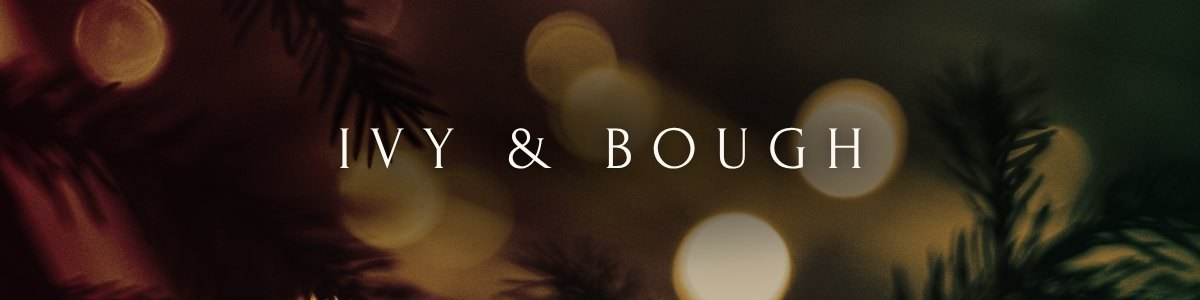
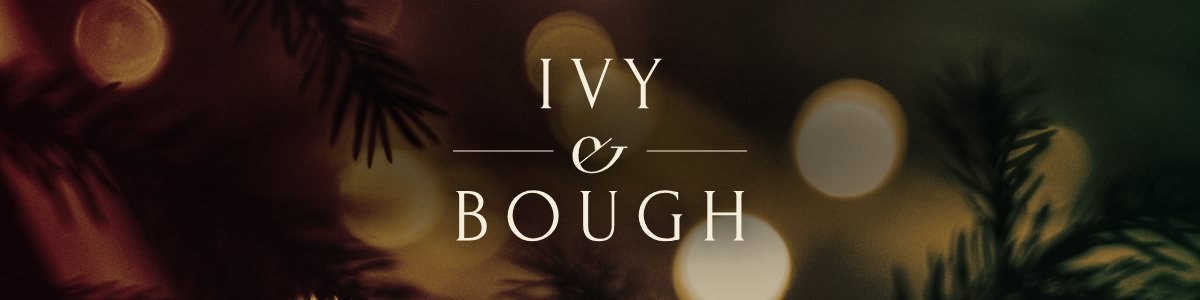
Use the brand wordmark in emails
Claude-Session: https://claude.ai/code/session_01BRVRusWH6xm1ZwGaMcoXVf

Changed region(s): [[0.2775, 0.42, 0.74, 0.57], [0.37, 0.63, 0.6167, 0.81], [0.4317, 0.18, 0.555, 0.36]]

diff --git a/lib/comms.ts b/lib/comms.ts
@@ -76,7 +76,7 @@ export function renderEmail(draft: Pick<Draft, "message_class" | "preheader">, b
 <tr><td align="center" style="padding:13px 12px;border-bottom:1px solid #E0D8CC;font-family:Arial,Helvetica,sans-serif;font-size:11px;letter-spacing:1.5px;text-transform:uppercase">${nav("Shop", "/shop")}${nav("Collections", "/collections")}${nav("The Christmas Edit", "/the-christmas-edit")}</td></tr>
 <tr><td style="padding:28px 32px 30px;font-family:Arial,Helvetica,sans-serif;font-size:15px;line-height:1.6;color:#2F2C27">${body.split(/\n\s*\n/).map(paragraph).join("")}</td></tr>${marketing ? collections : ""}
 <tr><td align="center" style="padding:30px 28px 28px;background:#2B2925;font-family:Arial,Helvetica,sans-serif;color:#E9E3D8">
-<div style="font-family:Georgia,'Times New Roman',serif;font-size:17px;letter-spacing:4px;padding-bottom:16px">IVY &amp; BOUGH</div>
+<div style="padding-bottom:18px"><img src="${SITE_URL}/email/wordmark-cream.png" width="130" alt="Ivy &amp; Bough" style="display:inline-block;width:130px;height:auto;border:0"></div>
 <div style="font-size:12px;line-height:2;padding-bottom:16px">${link("Shop", "/shop")} &nbsp;&middot;&nbsp; ${link("Collections", "/collections")} &nbsp;&middot;&nbsp; ${link("The Christmas Edit", "/the-christmas-edit")}<br>${link("Delivery", "/delivery")} &nbsp;&middot;&nbsp; ${link("Returns", "/returns")} &nbsp;&middot;&nbsp; ${link("FAQs", "/faq")} &nbsp;&middot;&nbsp; ${link("Contact", "/contact")}</div>
 <div style="height:1px;background:#4A463F;font-size:0;line-height:0">&nbsp;</div>
 <div style="font-size:11px;line-height:1.7;color:#B9B1A4;padding-top:16px">${why}<br>Ivy &amp; Bough is a trading name of Aurella Group Pty Ltd, ABN 70 649 742 423.<br><a href="mailto:hello@ivyandbough.com" style="color:#C4A265">hello@ivyandbough.com</a> &nbsp;&middot;&nbsp; <a href="${SITE_URL}/privacy" style="color:#C4A265">Privacy Policy</a>${unsubscribe}</div>
